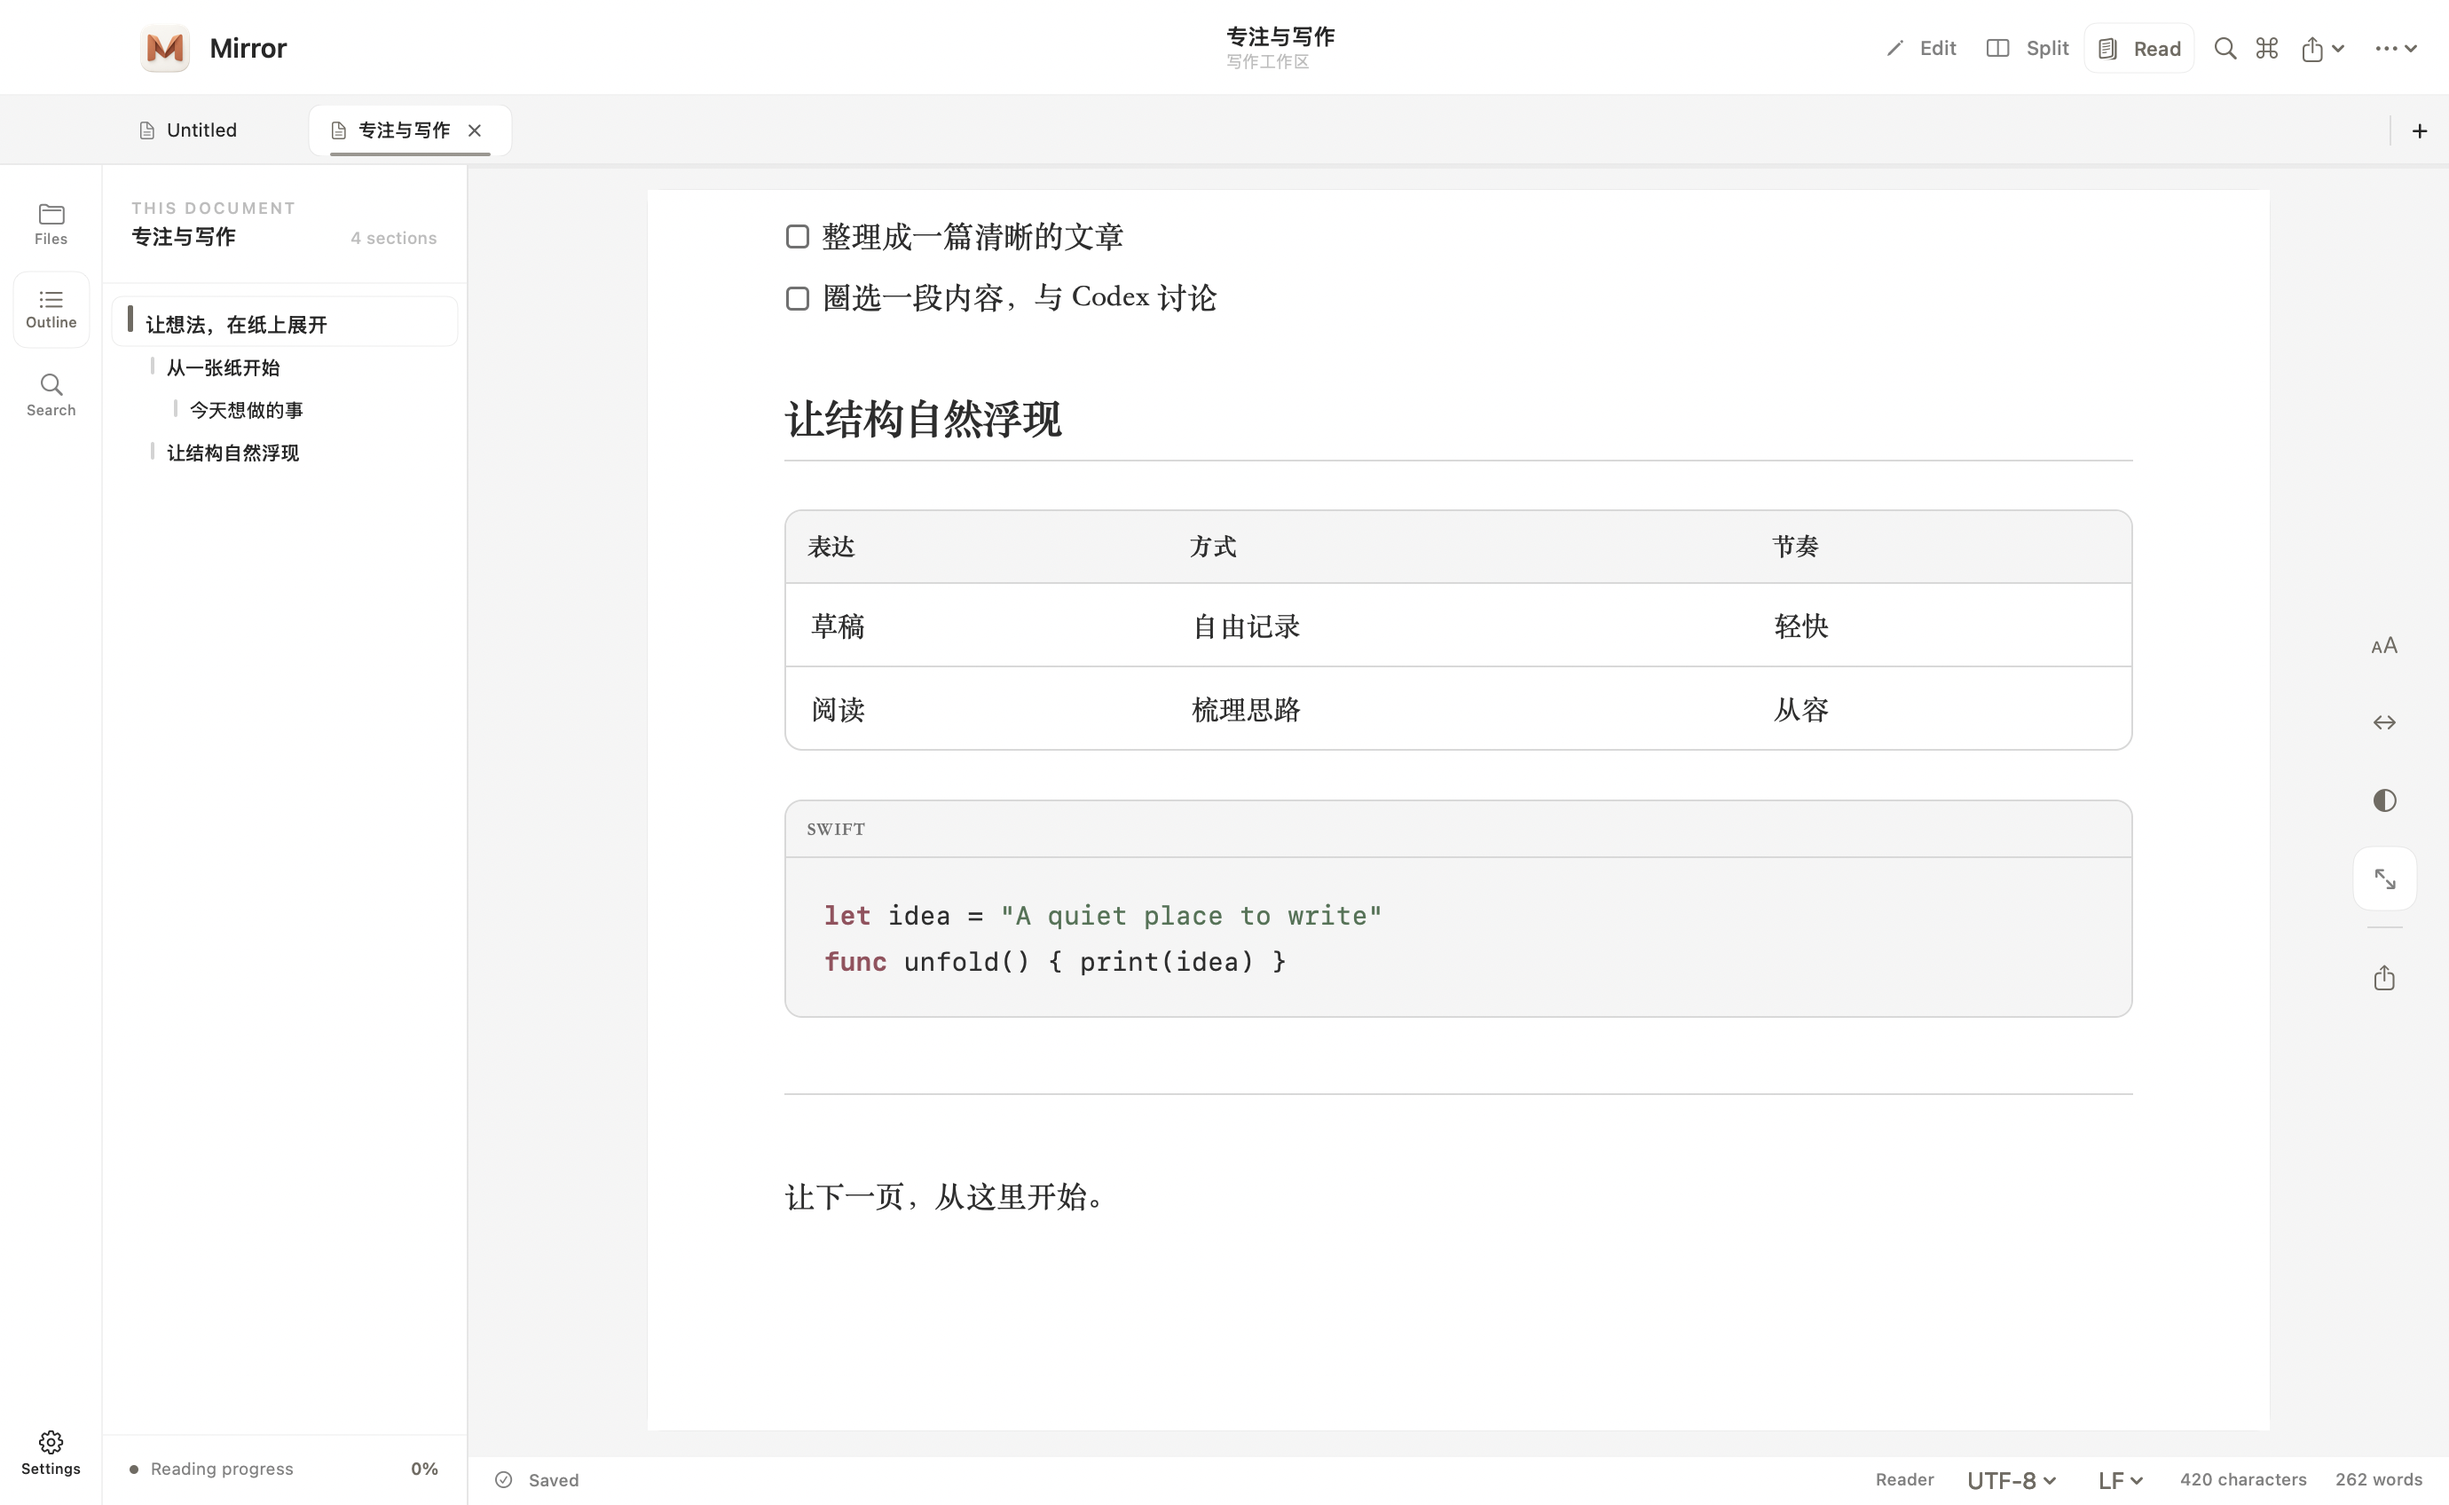
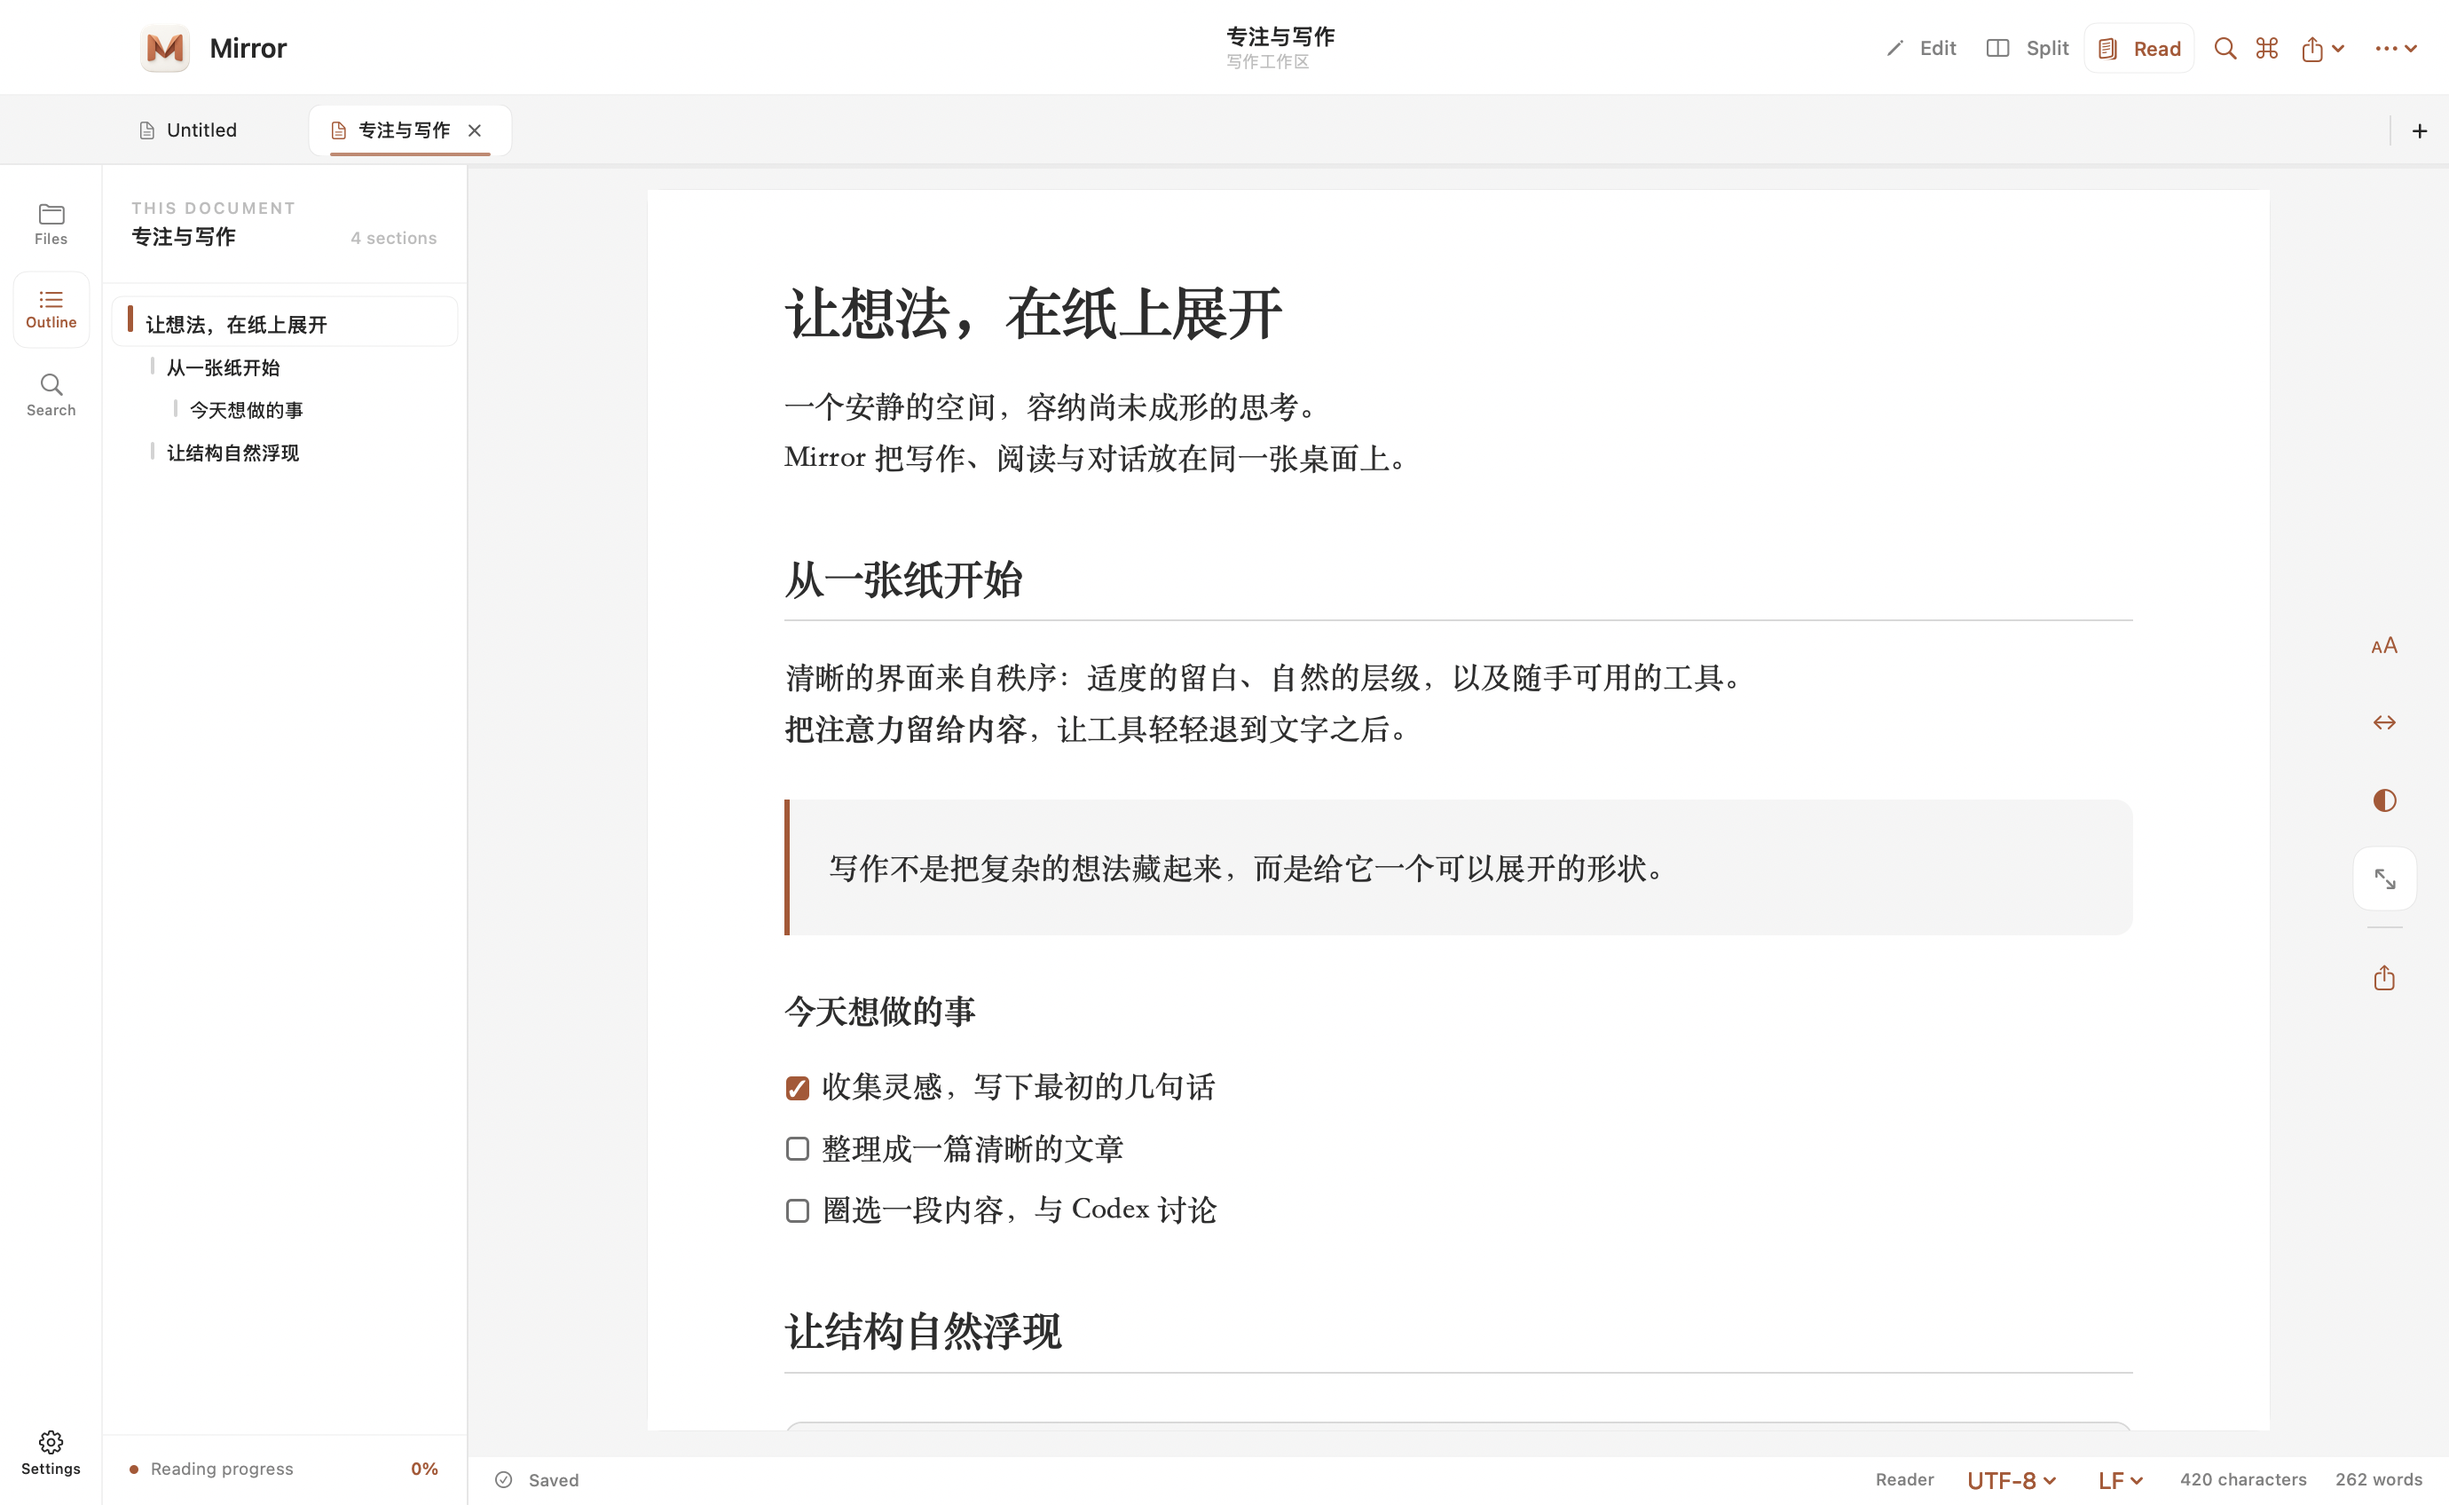
Use terracotta accents and refresh project screenshots

diff --git a/Sources/Mirror/Models.swift b/Sources/Mirror/Models.swift
@@ -218,7 +218,7 @@ struct EditorTheme: Codable, Hashable, Identifiable, Sendable {
     static let paper = EditorTheme(
         id: "builtin.paper", name: "Mirror Light", isDark: false, isBuiltIn: true,
         backgroundHex: "#FFFFFF", foregroundHex: "#2D2D2D", mutedHex: "#707070", lineHex: "#D8D8D8",
-        accentHex: "#706B62", codeHex: "#F5F5F5", syntaxKeywordHex: "#9A4F5D", syntaxStringHex: "#4E7354",
+        accentHex: "#AE542F", codeHex: "#F5F5F5", syntaxKeywordHex: "#9A4F5D", syntaxStringHex: "#4E7354",
         syntaxCommentHex: "#636366", syntaxNumberHex: "#9B633C", syntaxTypeHex: "#4F6F7A", syntaxTagHex: "#9A5745"
     )
     static let ink = EditorTheme(
